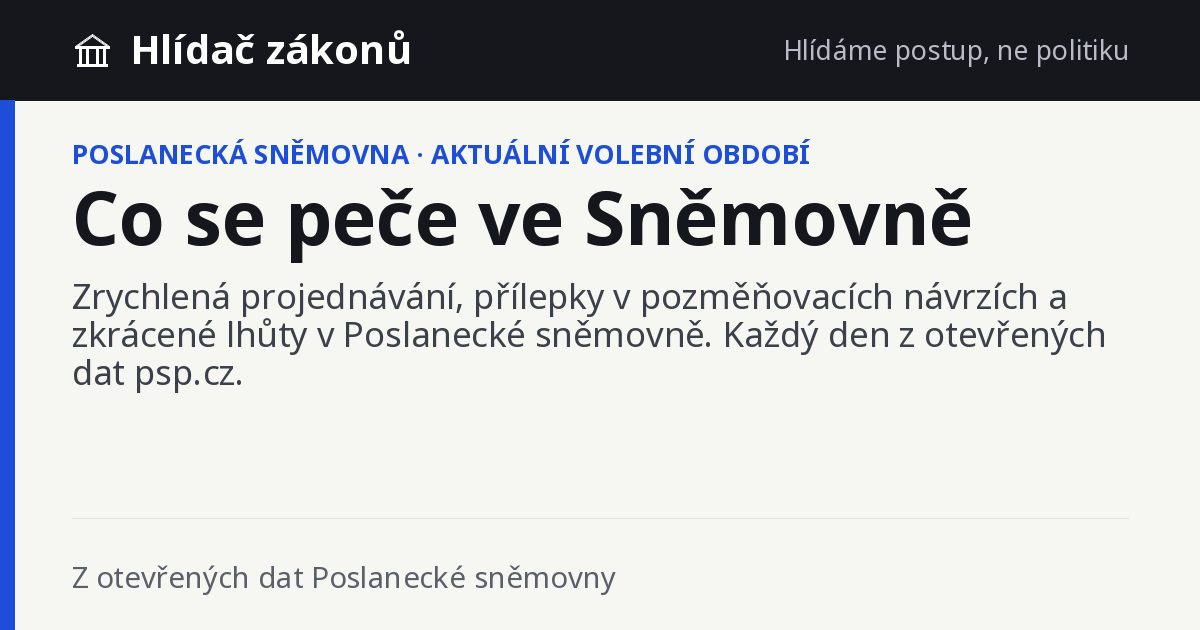
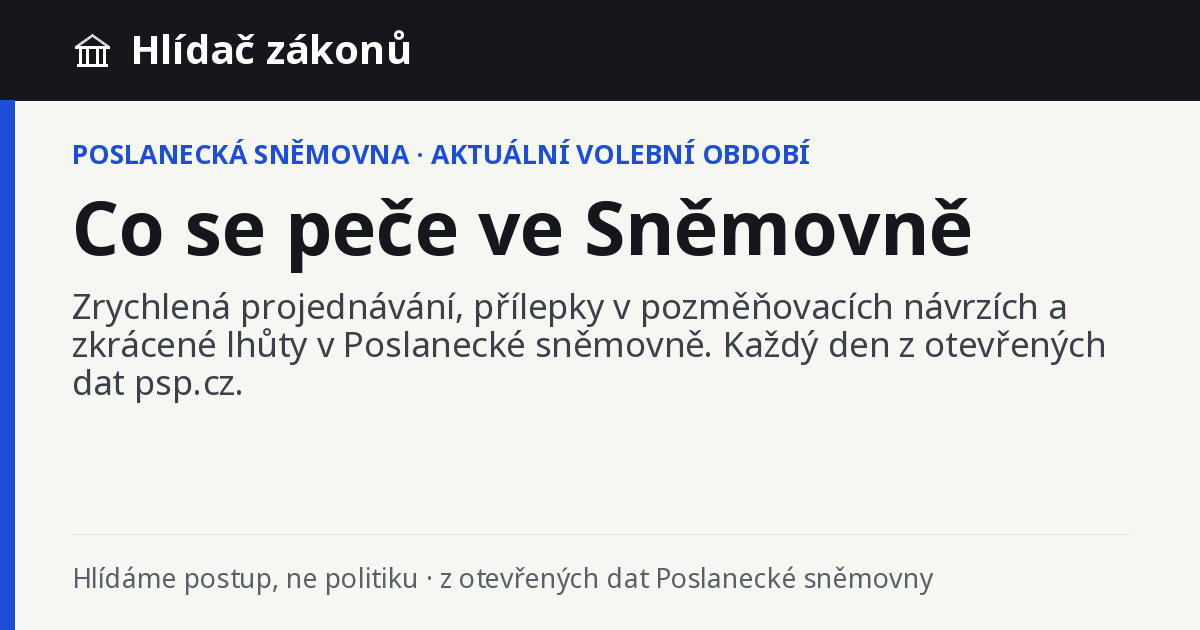
Karta pro sdílení: skóre vpravo nahoře, dole nic důležitého
X překrývá spodní pruh obrázku titulkem odkazu, takže skóre bylo zakryté.
Skóre je teď vpravo nahoře vedle nadtitulku, adresa webu v horním pruhu,
dole jen doplňkový text. Větší řádkování titulku, OgCard::VERSION = 2.

diff --git a/app/OgCard.php b/app/OgCard.php
@@ -12,7 +12,7 @@ final class OgCard
     public const WIDTH = 1200;
     public const HEIGHT = 630;
     // zvýšit při změně vzhledu, aby se nepoužily staré obrázky z cache
-    public const VERSION = 1;
+    public const VERSION = 2;
 
     private const PAD = 72;
     private const COLORS = [
@@ -126,14 +126,16 @@ final class OgCard
 
         imagefilledrectangle($im, 0, 0, $w, $h, $c['ground']);
 
-        // tmavý pruh se značkou jako na webu
+        // tmavý pruh se značkou jako na webu, vpravo adresa webu
         $barH = 100;
         imagefilledrectangle($im, 0, 0, $w, $barH, $c['ink']);
         self::drawLogo($im, $pad, 30, 40, $c['white']);
         imagettftext($im, 30, 0, $pad + 58, 64, $c['white'], $bold, 'Hlídač zákonů');
-        $right = 'Hlídáme postup, ne politiku';
-        $rw = self::textWidth($right, 20, $regular);
-        imagettftext($im, 20, 0, $w - $pad - $rw, 60, $c['bar_sub'], $regular, $right);
+        $domain = (string)($card['domain'] ?? '');
+        if ($domain !== '') {
+            $dw = self::textWidth($domain, 24, $bold);
+            imagettftext($im, 24, 0, $w - $pad - $dw, 61, $c['bar_sub'], $bold, $domain);
+        }
 
         // barevný pruh vlevo podle úrovně skóre (u stránek modrý)
         $levelColor = match ($card['level']) {
@@ -147,31 +149,55 @@ final class OgCard
         $maxW = $w - 2 * $pad;
         $y = $barH + 64;
 
-        // nadtitulek: tisk, typ návrhu, fáze
+        // skóre vpravo nahoře: spodní pruh obrázku na X překrývá titulek odkazu, proto nic důležitého dole
+        $pillW = 0;
+        if ($card['score'] !== null) {
+            $labels = [Scorer::LEVEL_MAJOR => 'Závažné', Scorer::LEVEL_WATCH => 'Pozor', Scorer::LEVEL_NORMAL => 'Běžné'];
+            [$bg, $fg] = match ($card['level']) {
+                Scorer::LEVEL_MAJOR => [$c['major'], $c['white']],
+                Scorer::LEVEL_WATCH => [$c['watch_bg'], $c['watch_ink']],
+                default => [$c['normal_bg'], $c['muted']],
+            };
+            $num = (string)(int)$card['score'];
+            $of = '/100';
+            $label = $labels[$card['level']] ?? '';
+            $numW = self::textWidth($num, 34, $bold);
+            $ofW = self::textWidth($of, 20, $regular);
+            $labW = self::textWidth($label, 24, $bold);
+            $pillW = 24 + $numW + 4 + $ofW + 16 + $labW + 24;
+            $px = $w - $pad - $pillW;
+            $py = $barH + 24;
+            self::roundedRect($im, $px, $py, $px + $pillW, $py + 60, 14, $bg);
+            imagettftext($im, 34, 0, $px + 24, $py + 45, $fg, $bold, $num);
+            imagettftext($im, 20, 0, $px + 24 + $numW + 4, $py + 45, $fg, $regular, $of);
+            imagettftext($im, 24, 0, $px + 24 + $numW + 4 + $ofW + 16, $py + 42, $fg, $bold, $label);
+        }
+
+        // nadtitulek: tisk, typ návrhu, fáze (vedle skóre)
         $eyebrow = mb_strtoupper((string)$card['eyebrow']);
-        $eyebrow = self::fit($eyebrow, 20, $bold, $maxW, 1)[0];
+        $eyebrow = self::fit($eyebrow, 20, $bold, $maxW - ($pillW > 0 ? $pillW + 24 : 0), 1)[0];
         imagettftext($im, 20, 0, $pad, $y, $c['accent'], $bold, $eyebrow);
 
         // titulek: co nejvíc čitelný, zmenšuje se podle délky, max. 3–4 řádky
-        $footerTop = $h - 112;
+        $footerTop = $h - 96;
         $text = trim((string)$card['text']);
         $textSize = 26;
         $textLines = $text !== '' ? self::fit($text, $textSize, $regular, $maxW, (int)($card['text_lines'] ?? 2)) : [];
         $textH = count($textLines) * (int)round($textSize * 1.45);
-        $titleTop = $y + 26;
-        $titleRoom = $footerTop - 28 - ($textH > 0 ? $textH + 22 : 0) - $titleTop;
+        $titleTop = $y + 30;
+        $titleRoom = $footerTop - 24 - ($textH > 0 ? $textH + 22 : 0) - $titleTop;
         $title = (string)$card['title'];
         $lines = [];
         $size = 56;
         foreach ([56, 50, 44, 40, 36] as $size) {
-            $lineH = (int)round($size * 1.2);
+            $lineH = (int)round($size * 1.3);
             $maxLines = max(1, intdiv($titleRoom, $lineH));
             $lines = self::fit($title, $size, $bold, $maxW, $maxLines, $complete);
             if ($complete) {
                 break;
             }
         }
-        $lineH = (int)round($size * 1.2);
+        $lineH = (int)round($size * 1.3);
         $ty = $titleTop;
         foreach ($lines as $line) {
             $ty += $lineH;
@@ -185,33 +211,10 @@ final class OgCard
             imagettftext($im, $textSize, 0, $pad, $ty - 8, $c['ink2'], $regular, $line);
         }
 
-        // spodní řádek: skóre (u tisku) a adresa webu
+        // spodní řádek jen doplňkový (na X ho překryje titulek odkazu)
         imageline($im, $pad, $footerTop, $w - $pad, $footerTop, $c['line']);
-        $by = $footerTop + 30;
-        if ($card['score'] !== null) {
-            $labels = [Scorer::LEVEL_MAJOR => 'Závažné', Scorer::LEVEL_WATCH => 'Pozor', Scorer::LEVEL_NORMAL => 'Běžné'];
-            [$bg, $fg] = match ($card['level']) {
-                Scorer::LEVEL_MAJOR => [$c['major'], $c['white']],
-                Scorer::LEVEL_WATCH => [$c['watch_bg'], $c['watch_ink']],
-                default => [$c['normal_bg'], $c['muted']],
-            };
-            $num = (string)(int)$card['score'];
-            $label = $labels[$card['level']] ?? '';
-            $numW = self::textWidth($num, 34, $bold);
-            $labW = self::textWidth($label, 24, $bold);
-            $pillW = 28 + $numW + 14 + $labW + 28;
-            self::roundedRect($im, $pad, $by, $pad + $pillW, $by + 60, 14, $bg);
-            imagettftext($im, 34, 0, $pad + 28, $by + 45, $fg, $bold, $num);
-            imagettftext($im, 24, 0, $pad + 28 + $numW + 14, $by + 41, $fg, $bold, $label);
-            imagettftext($im, 22, 0, $pad + $pillW + 20, $by + 40, $c['muted'], $regular, 'skóre závažnosti postupu ze 100');
-        } else {
-            imagettftext($im, 22, 0, $pad, $by + 40, $c['muted'], $regular, 'Z otevřených dat Poslanecké sněmovny');
-        }
-        $domain = (string)($card['domain'] ?? '');
-        if ($domain !== '') {
-            $dw = self::textWidth($domain, 26, $bold);
-            imagettftext($im, 26, 0, $w - $pad - $dw, $by + 41, $c['ink'], $bold, $domain);
-        }
+        imagettftext($im, 20, 0, $pad, $footerTop + 54, $c['muted'], $regular,
+            'Hlídáme postup, ne politiku · z otevřených dat Poslanecké sněmovny');
 
         ob_start();
         imagepng($im, null, 6);
